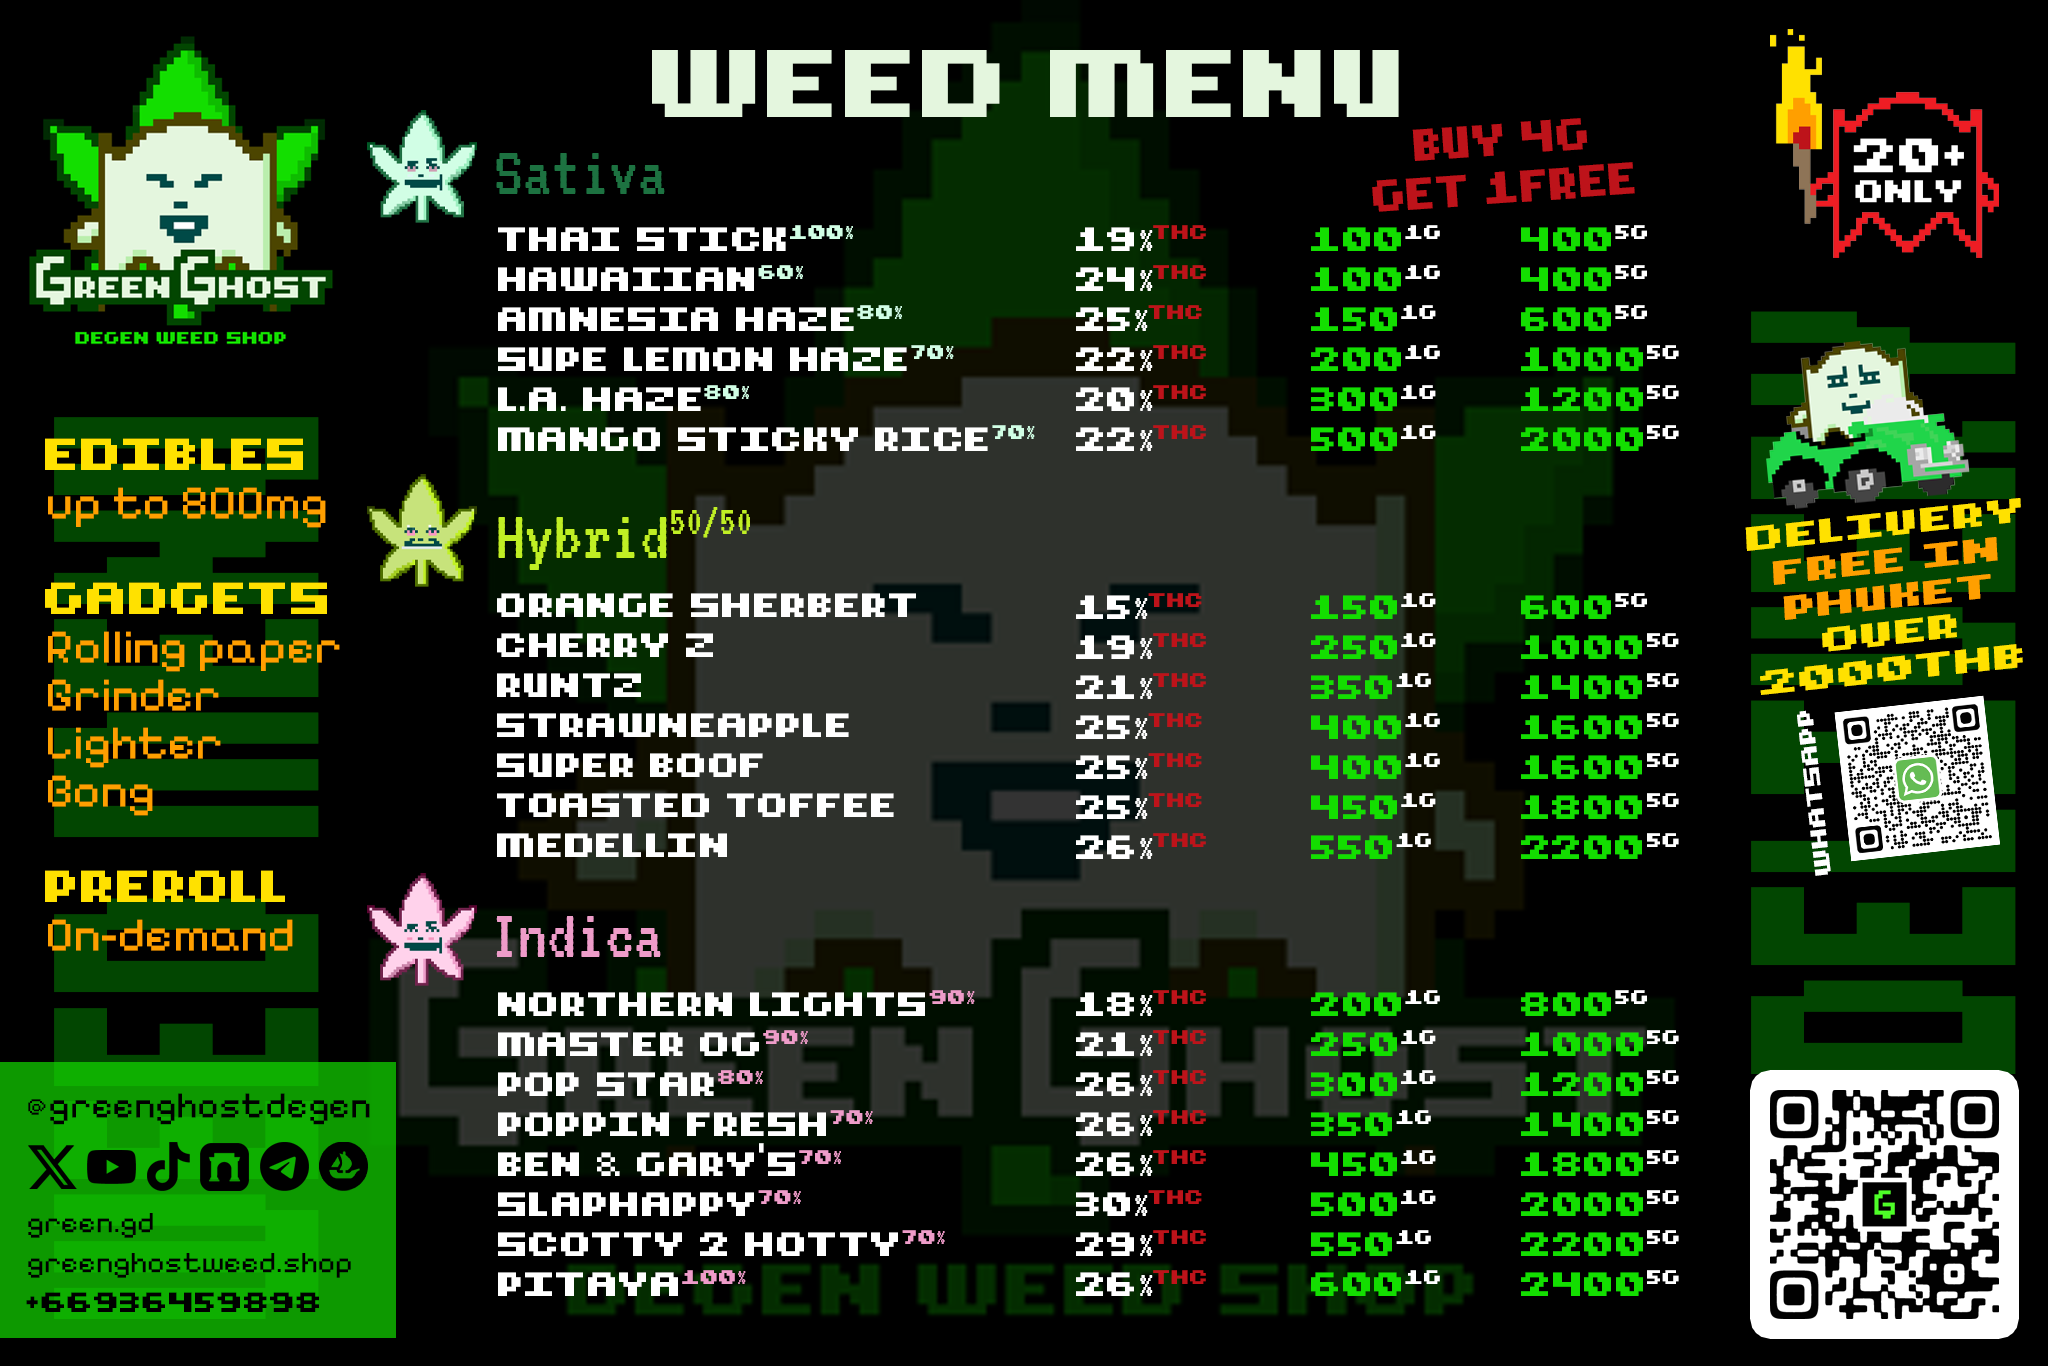
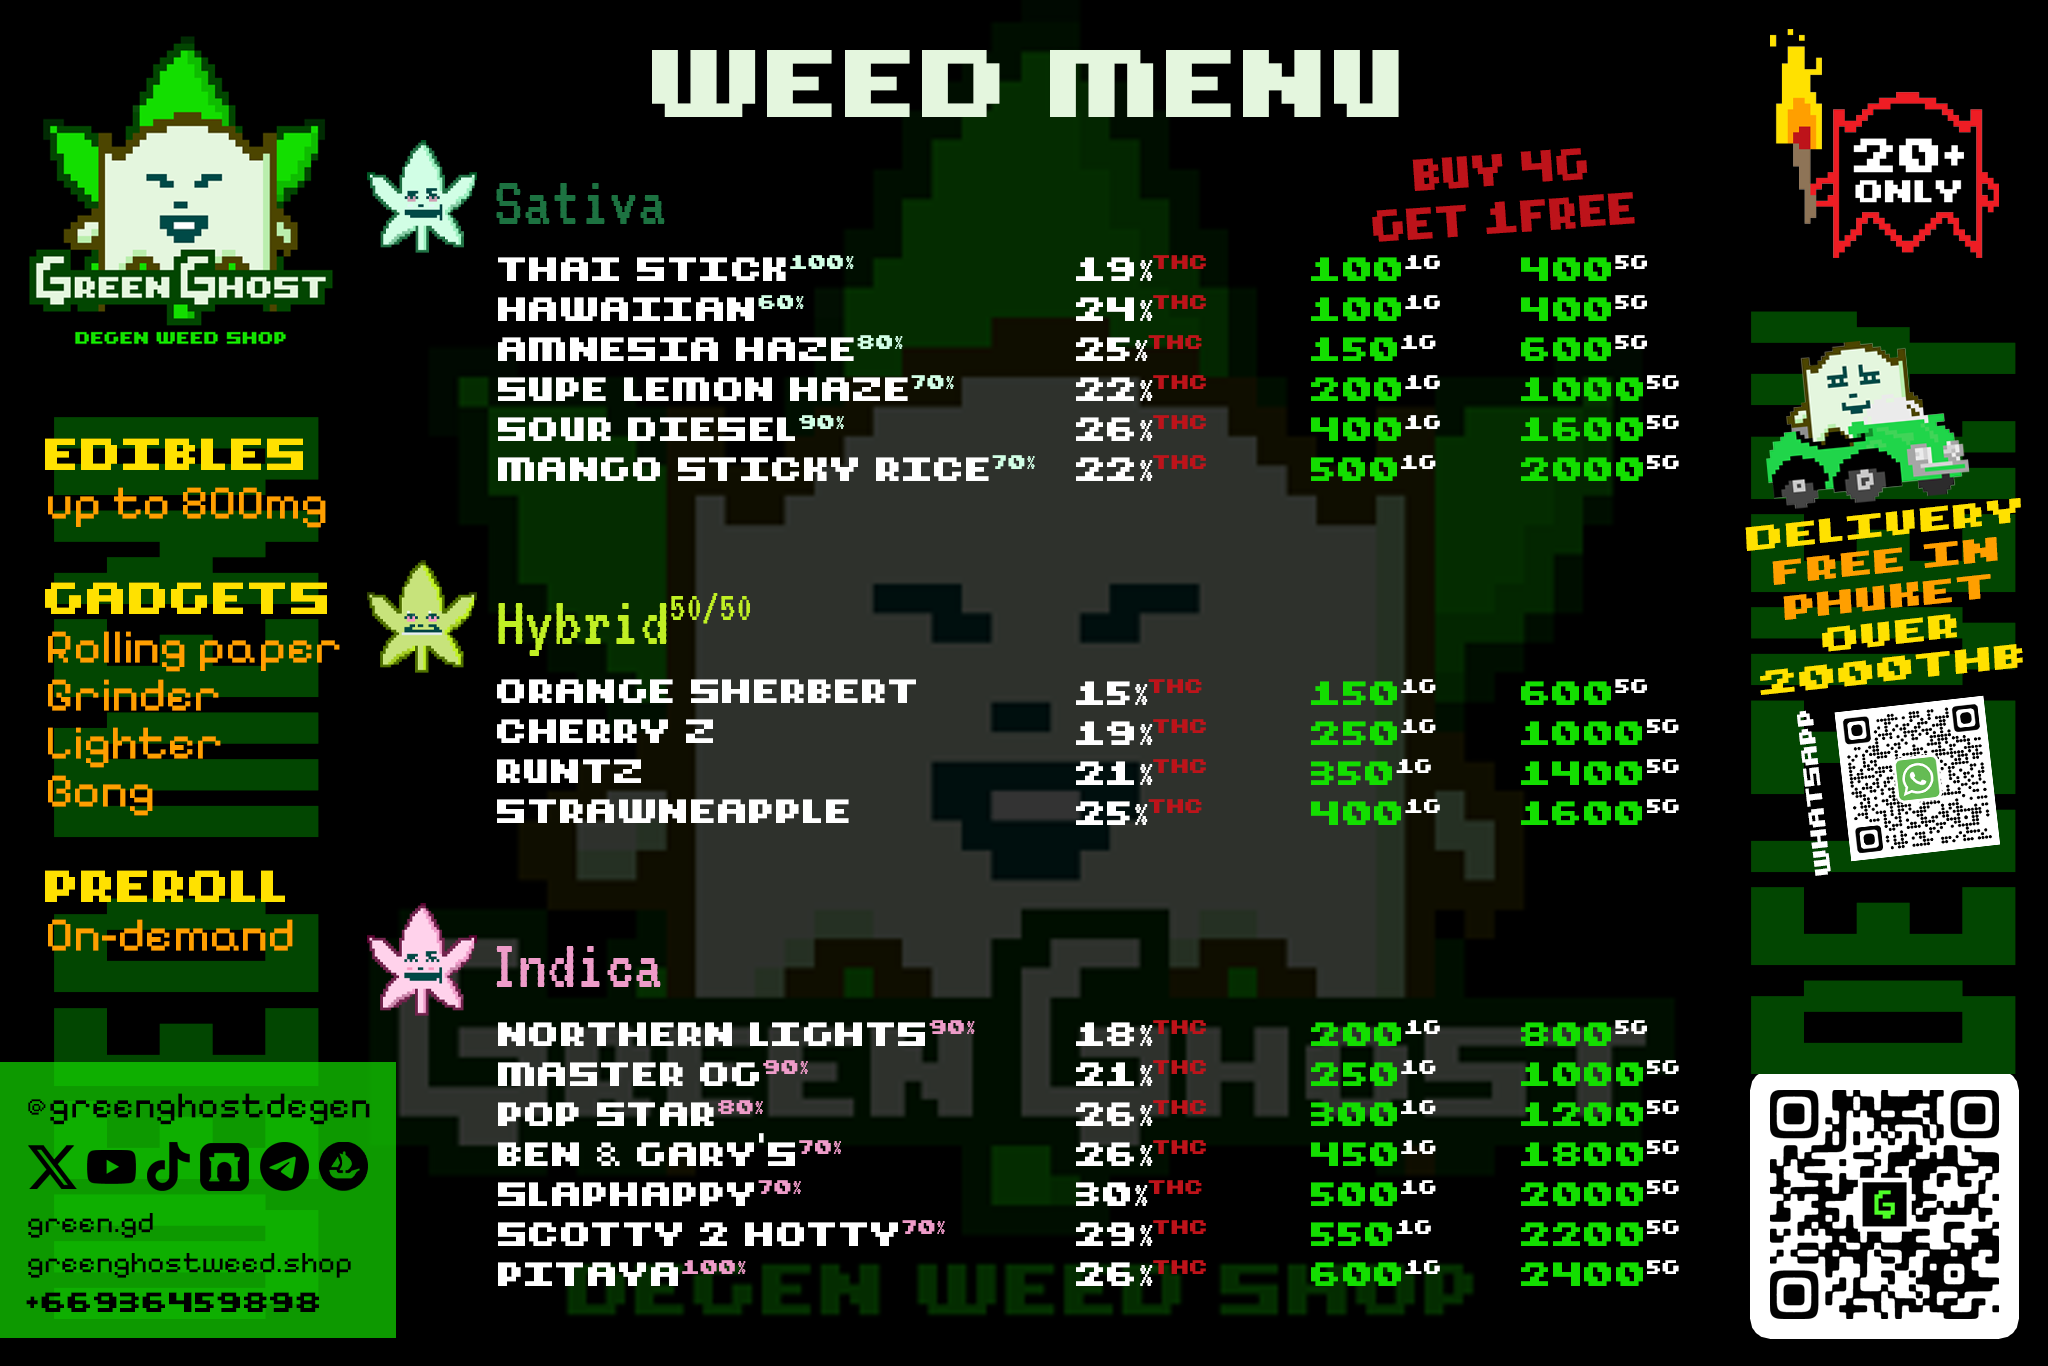
Update menu

diff --git a/config/buds.ts b/config/buds.ts
@@ -538,9 +538,9 @@ export const buds: Bud[] = [
     descSeo:
       "Sour Diesel is a sativa-dominant strain with a 90:10 ratio. Known for its uplifting cerebral high, diesel aroma, and lemon aftertaste, it's perfect for creative energy.",
     images: [
+      '/media/green-ghost-degen-weed-shop-strain-sour-diesel-bud-01.webp',
       '/media/green-ghost-degen-weed-shop-strain-sour-diesel-cover.webp',
-      '/media/green-ghost-degen-weed-shop-strain-sour-diesel-cover.webp',
-      '/media/green-ghost-degen-weed-shop-strain-sour-diesel-cover.webp',
+      '/media/green-ghost-degen-weed-shop-strain-sour-diesel-bud-02.webp',
     ],
     imgDesc: 'Green Ghost 🌿👻 Degen Weed Shop Sour Diesel Strain',
     source:
@@ -822,7 +822,7 @@ export const buds: Bud[] = [
     growerSlug: '',
     environment: 'Indoor',
     grade: 'AAAA Grade',
-    quantity: 50,
+    quantity: 0,
     origin: 'Phuket',
     description:
       'Medellin is a perfectly balanced hybrid strain (50% indica, 50% sativa) created by crossing Wedding Cake and Chemdawg, offering a high that’s as dynamic as its origin. With an impressive THC level averaging between 25-28%, Medellin is well-suited for seasoned cannabis users looking for a potent, multifaceted experience. Its effects begin with an uplifting and tingly sensation, delivering a subtle boost of energy and stimulation before transitioning into a deep state of relaxation. This duality makes it a great companion for both socializing and unwinding. \n\n Medellin is popular among medical cannabis patients for its ability to alleviate symptoms of anxiety, depression, pain, and chronic stress. It’s also a go-to strain for combating inflammation and fatigue. The buds of Medellin are a visual treat, with neon green pepper-shaped nugs, vibrant purple undertones, fiery orange hairs, and a frosty coating of purple-tinted trichomes. \n\n The flavor profile of Medellin is just as captivating, offering a mix of sweet and sour lemony herbal tea with notes of pungent diesel and pepper. The dominant terpene, caryophyllene, adds spicy and earthy undertones that enhance its overall complexity. Bred by Lemonnade and named after the iconic Colombian region, Medellin encapsulates a tropical vibe that transports you to a warm and tranquil paradise. Whether for medical use or recreational enjoyment, Medellin delivers a memorable cannabis experience.',

diff --git a/config/edibles.ts b/config/edibles.ts
@@ -142,6 +142,27 @@ export const edibles: Edible[] = [
     imgDesc: 'Green Ghost 🌿👻 Degen Weed Shop Best Gummies THC Edible',
   },
   {
+    slug: 'thc-nano-gummies',
+    name: 'THC Nano Gummies',
+    price: 400,
+    packaging: '5 Gummies',
+    THC: '100',
+    CBD: '0',
+    effects: 'Creative, Happy, Euphoric',
+    ingretiens: 'Cannabutter, Eggs, Flour',
+    quantity: 1,
+    description:
+      "Dive into a world of sour-sweet delight with Nano Sourz Sour Atch Kids, the ultimate treat for cannabis enthusiasts seeking a mild, controlled experience. Each pack contains 5 carefully crafted gummies, infused with advanced nano-emulsion technology for fast-acting effects and maximum bioavailability. These hybrid-dominant gummies are designed to offer a balanced blend of uplifting euphoria and soothing relaxation, perfect for any time of day. \n\n With just 0.2% THC per piece, Nano Sourz Sour Atch Kids provide a subtle yet satisfying experience, making them an excellent choice for beginners or anyone looking to microdose. The sour coating adds a tangy burst of flavor that complements the fruity sweetness, creating a taste sensation you'll crave. \n\n Crafted with precision, these gummies ensure consistent dosing and rapid onset, thanks to the nano-infusion process that enhances THC absorption. Whether you're seeking creative inspiration, a gentle lift in mood, or a way to unwind after a long day, these hybrid-dominant treats are your go-to option. Indulge in a discreet and delicious cannabis experience with Nano Sourz Sour Atch Kids. Perfect for on-the-go enjoyment or a laid-back evening, they combine great taste with cutting-edge innovation. Elevate your snacking game today and discover why these gummies are a fan favorite!",
+    descSeo:
+      'Enjoy Nano Sourz Sour Atch Kids! 5 nano-infused gummies, 0.2% THC each. Hybrid-dominant for balanced effects. Fast-acting, discreet, and irresistibly tangy!',
+    images: [
+      '/media/green-ghost-degen-weed-shop-menu-edible-thc-nano-gummies-01.webp',
+      '/media/green-ghost-degen-weed-shop-menu-edible-thc-nano-gummies-cover.webp',
+      '/media/green-ghost-degen-weed-shop-menu-edible-thc-nano-gummies-02.webp',
+    ],
+    imgDesc: 'Green Ghost 🌿👻 Degen Weed Shop Best Nano Gummies THC Edible',
+  },
+  {
     slug: 'thc-pretzels',
     name: 'THC Pretzels',
     price: 200,
